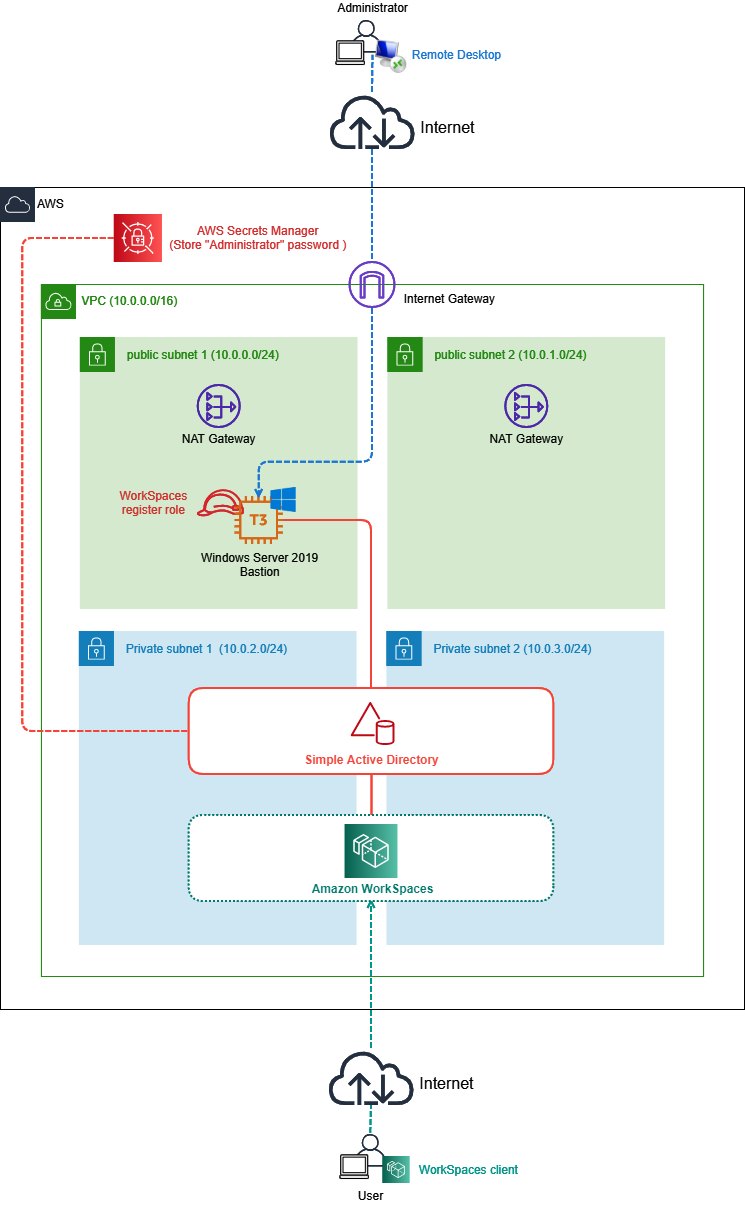
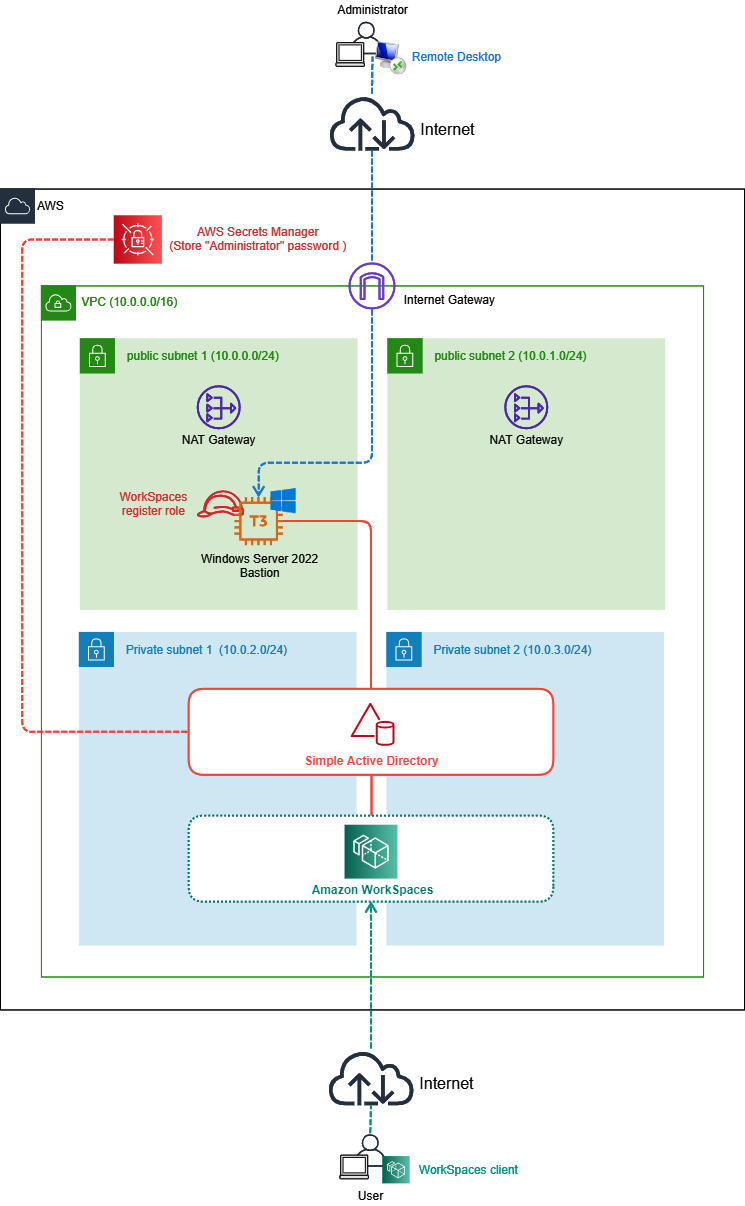
Update bastion version up to Windows Server 2022.

diff --git a/workspaces-microsoft-ad-stack/README.md b/workspaces-microsoft-ad-stack/README.md
@@ -68,7 +68,7 @@ CloudFormationテンプレート [WorkSpaces-MicrosoftAD.yaml](./WorkSpaces-Micr
 |ADSubnetID1|AWS Managed Microsoft ADを配備する1つめのSubnet ID|-||
 |ADSubnetID2|AWS Managed Microsoft ADを配備する2つめのSubnet ID|-|ADSubnetID1とは異なるSubnetにしてください|
 |BastionKeyPairName|踏み台サーバーで使用するキーペア名|-|キーペアは事前に作成しておいてください|
-|BastionAmi|踏み台サーバーのAMI|/aws/service/ami-windows-latest/Windows_Server-2019-Japanese-Full-Base|英語OS : /aws/service/ami-windows-latest/Windows_Server-2019-English-Full-Base も利用可能|
+|BastionAmi|踏み台サーバーのAMI|/aws/service/ami-windows-latest/Windows_Server-2022-Japanese-Full-Base|英語OS : /aws/service/ami-windows-latest/Windows_Server-2022-English-Full-Base も利用可能|
 |MaintenanceCIDR|踏み台サーバーに接続可能なCIDR|1.2.3.4/32|ここで指定したCIDRからのみRDP接続できます|
 |MSADEdition|AWS Managed Microsoft ADのエディション|Standard|StandardかEnterpriseから選択|
 |DomainDNSName|作成するActive DirectoryのDNS名|corp.contoso.com||

diff --git a/workspaces-simple-ad-stack/README.md b/workspaces-simple-ad-stack/README.md
@@ -68,7 +68,7 @@ CloudFormationテンプレート [WorkSpaces-SimpleAD.yaml](./WorkSpaces-SimpleA
 |ADSubnetID1|Simple ADを配備する1つめのSubnet ID|-||
 |ADSubnetID2|Simple ADを配備する2つめのSubnet ID|-|ADSubnetID1とは異なるSubnetにしてください|
 |BastionKeyPairName|踏み台サーバーで使用するキーペア名|-|キーペアは事前に作成しておいてください|
-|BastionAmi|踏み台サーバーのAMI|/aws/service/ami-windows-latest/Windows_Server-2019-Japanese-Full-Base|英語OS : /aws/service/ami-windows-latest/Windows_Server-2019-English-Full-Base も利用可能|
+|BastionAmi|踏み台サーバーのAMI|/aws/service/ami-windows-latest/Windows_Server-2022-Japanese-Full-Base|英語OS : /aws/service/ami-windows-latest/Windows_Server-2022-English-Full-Base も利用可能|
 |MaintenanceCIDR|踏み台サーバーに接続可能なCIDR|1.2.3.4/32|ここで指定したCIDRからのみRDP接続できます|
 |SimpleADSize|作成するSimple ADのサイズ|Small|SmallかLargeから選択|
 |DomainDNSName|作成するActive DirectoryのDNS名|corp.contoso.com||
